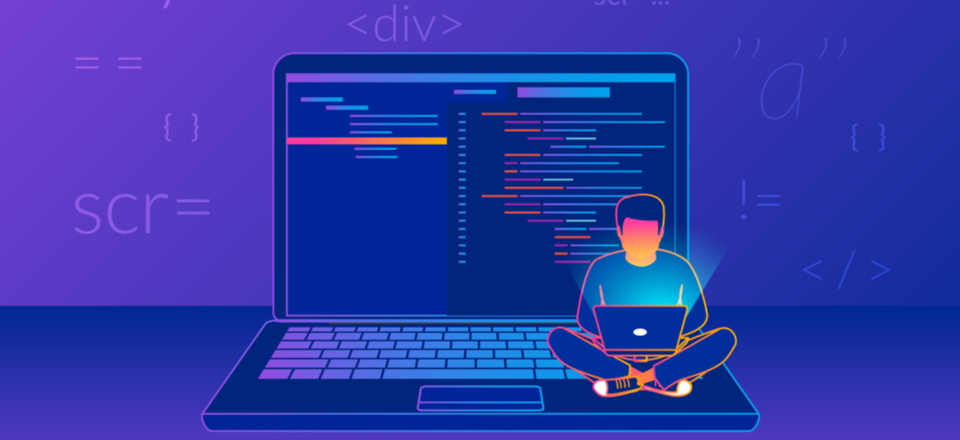
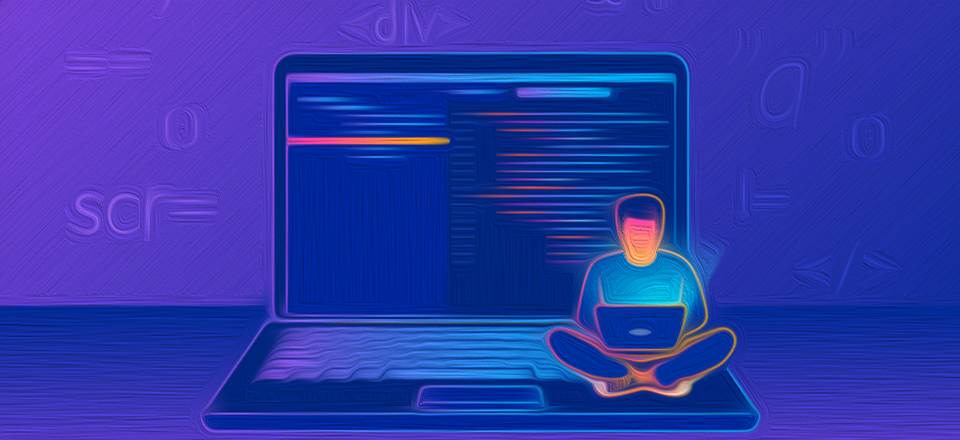
removed figcaption from hero. Edited hero image to something more elegant

diff --git a/index.html b/index.html
@@ -36,7 +36,7 @@
             <div id="william-hero">
                 <img src="assets/images/william.jpg" alt="William Lucht">
             </div>
-            <figcaption>I love the web!</figcaption>
+            <!-- <figcaption>I love the web!</figcaption> -->
         </div>
         <section id="flex-container container about-me">
             <div class="row">
@@ -135,18 +135,6 @@
                     </div>
                 </div>    
             </section>
-            <!-- <section id="contact-me">
-                <div>
-                    <section id="contact-me-inner" class="flex-wrap">
-                        <h2>Contact Me</h2>
-                        <ul>
-                            <li>Phone: <a href="tel:1234567891">(858)6503-4860</a></li>
-                            <li>Email: <a href="mailto:aaronlucht@gmail.com">aaronlucht@gmail.com</a></li>
-                            <li><a href="https://github.com/d606n6k" target="_blank">Github</a></li>
-                        </ul>
-                    </section>
-                </div>
-            </section> -->
         </section>
     </main>
     <footer id="contact-me" class="bg-dark text-center text-white">
